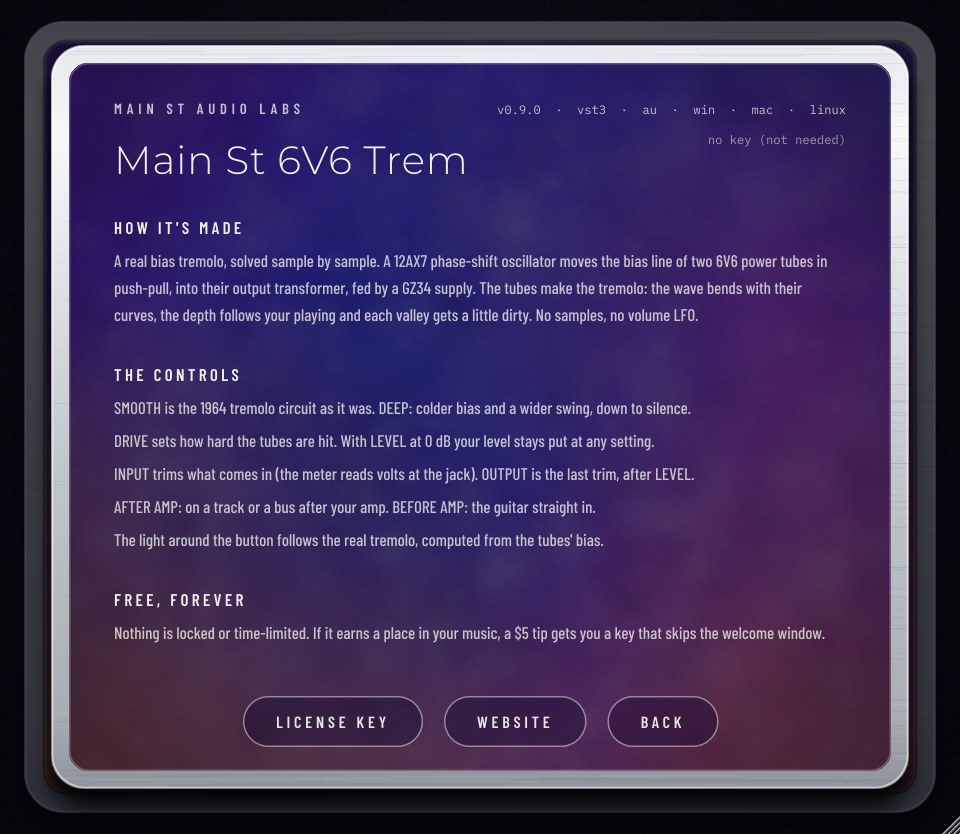
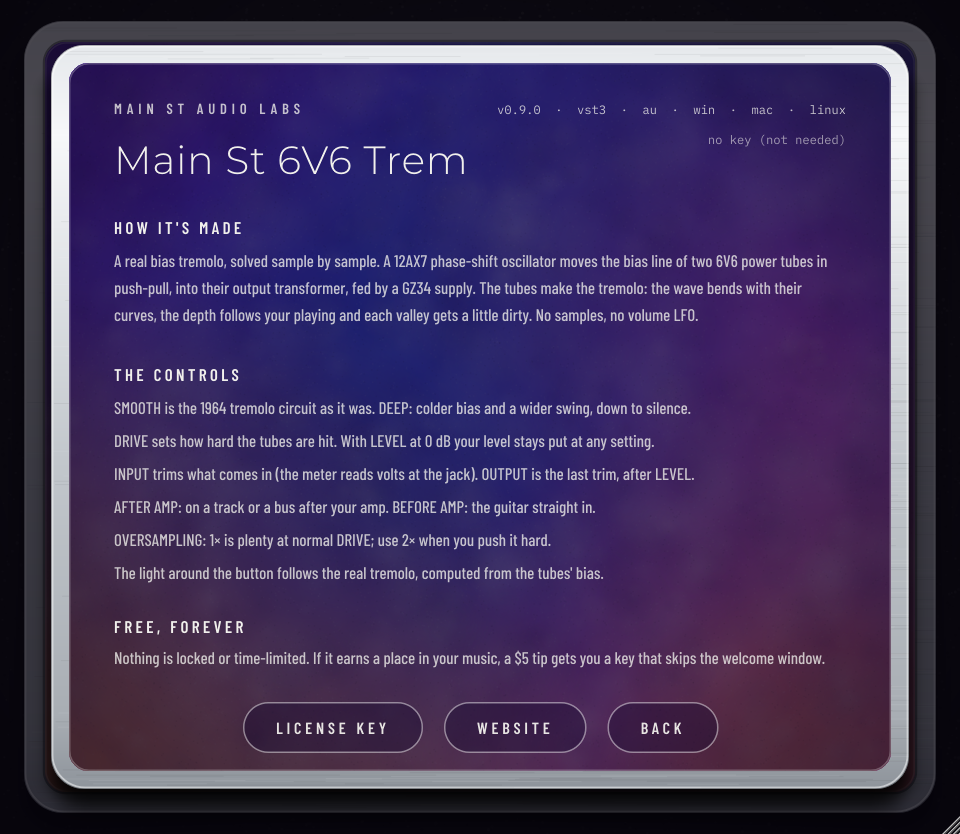
Main St 6V6 Trem: el sobremuestreo en 1x por defecto, el silencio no gasta CPU y capturas al dia
Claude-Session: https://claude.ai/code/session_01DKUaWNrdEjRk7G79xe5Cf5

Changed region(s): [[0.125, 0.6859, 0.875, 0.9041], [0.125, 0.6235, 0.625, 0.6547]]

diff --git a/main-st-6v6-trem.md b/main-st-6v6-trem.md
@@ -50,7 +50,7 @@ There is no speaker and no cabinet: the output is taken off the transformer and 
 | **macOS** | 10.13 High Sierra or later. Universal binary: runs natively on both Intel and Apple Silicon Macs. |
 | **Linux** | x86_64, with glibc 2.35 or later (Ubuntu 22.04 and equivalents onward). |
 | **Formats** | VST3 on all three systems; Audio Unit (AU) on macOS for Logic Pro and GarageBand. It is an effect for your DAW: there is no standalone application. |
-| **CPU** | Moderate, since a whole power stage is solved sample by sample: on our test machine, about 15% of one core at 48 kHz at the default 2× oversampling (about 11% at 1×, 28% at 4×). |
+| **CPU** | Moderate, since a whole power stage is solved sample by sample: on our test machine, about 10% of one core at 48 kHz at the default 1× oversampling (about 16% at 2×). When the track is silent, almost nothing. |
 
 ---
 
@@ -113,10 +113,12 @@ The panel at the bottom of the pedal has two rows.
 - **INPUT:** A digital trim in dB: how hard the signal hits the circuit. Below its meter, the peak voltage reaching the pedal (V pk), holding each peak for about 1.5 seconds.
 - **AFTER AMP / BEFORE AMP:** Where the pedal sits (see *Where to Put It*).
 - **OUTPUT:** The final trim in dB, after LEVEL. Below its meter, the output level in dBFS.
-- **OVERSAMPLING (1×, 2×, 4×):** Reduces aliasing when the tubes are driven hard. 2× is the default; 2× and 4× add 3 and 4 samples of latency, reported to your DAW.
+- **OVERSAMPLING (1×, 2×, 4×):** Reduces aliasing when the tubes are driven hard. **1×** is the default and is plenty at normal DRIVE settings; switch to **2×** when you push DRIVE high, especially on bright parts. 2× and 4× add 3 and 4 samples of latency, reported to your DAW. Oversampling counts from 48 kHz: if your project runs at 88.2 or 96 kHz, the pedal already works at that rate, so 2× costs nothing extra there.
 - **INFO:** How it's made, the version, the website and your license key.
 
 You can resize the window from its corner; it keeps its size with your project.
+
+**Silence costs nothing.** After a second of digital silence on the track (gaps between regions, a stopped transport) the tubes rest and the CPU drops to almost zero. The first note wakes them up instantly, right where they left off.
 
 ---
 
